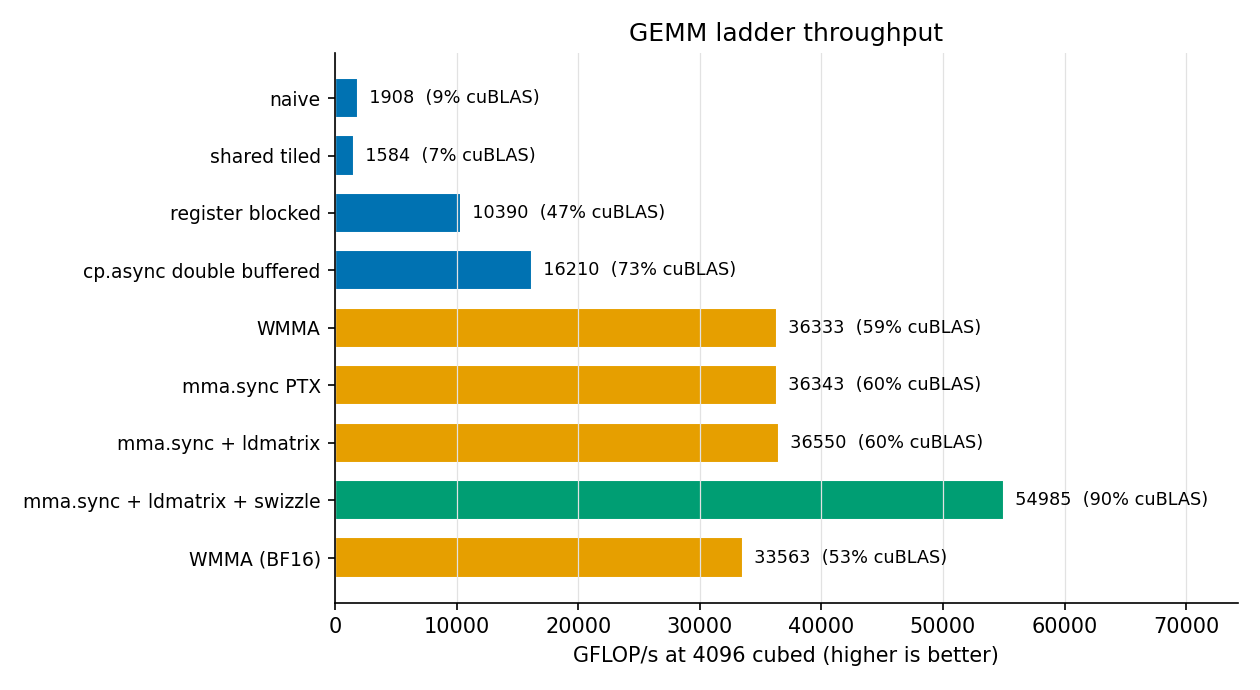
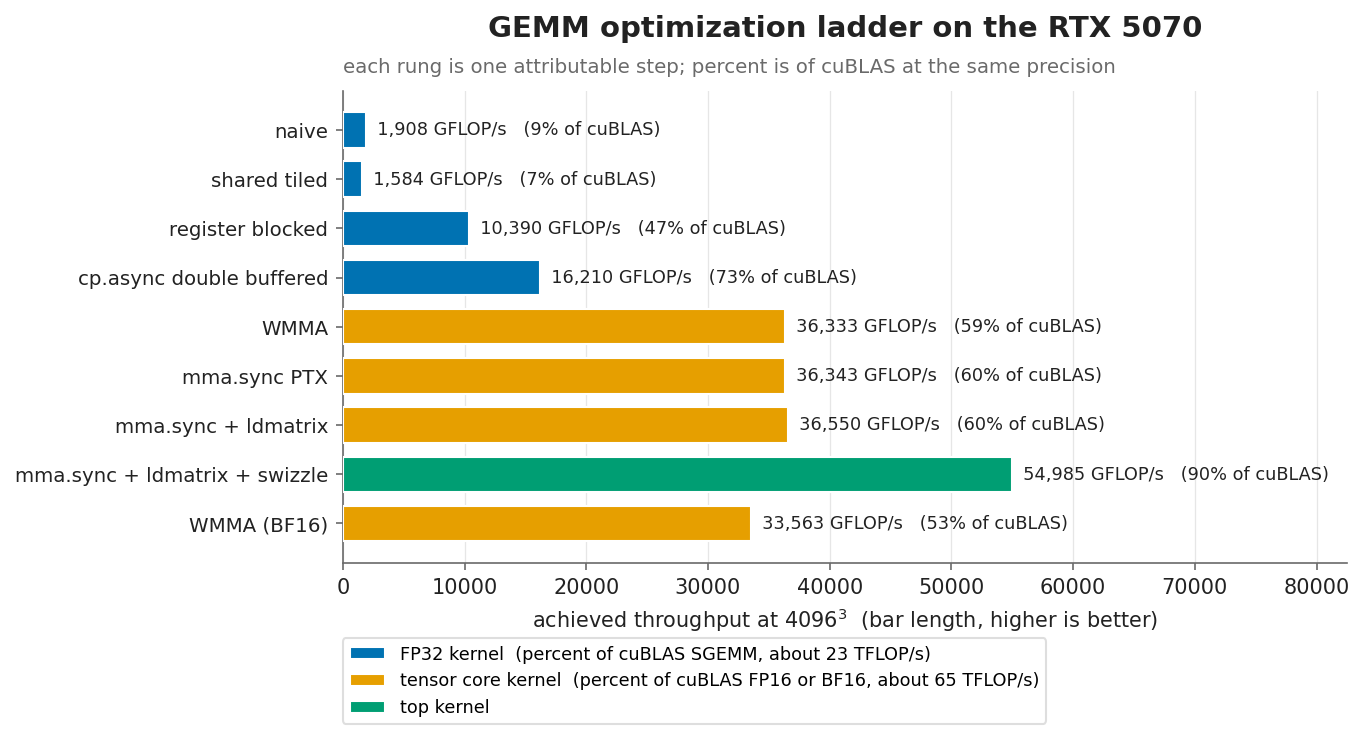
Rename project title to CUDA Kernel Library; clearer ladder chart with per-precision legend and new-page section starts

Changed region(s): [[0.0, 0.0, 0.9905, 1.0], [0.8976, 0.8522, 0.9595, 0.913]]

diff --git a/scripts/gen_report_assets.py b/scripts/gen_report_assets.py
@@ -66,7 +66,7 @@ def write_gemm_ladder(rows, size: int) -> list[tuple[str, float, float]]:
         g = float(r["gflops"])
         pct = float(r["pct_baseline"])
         lines.append(f"{latex_escape(label)} & {dtype} & {g:.0f} & {pct:.1f} \\\\")
-        plotted.append((label, g, pct))
+        plotted.append((label, dtype, g, pct))
     lines += [r"\bottomrule", r"\end{tabular}", ""]
     out.write_text("\n".join(lines), encoding="utf-8")
     return plotted
@@ -99,41 +99,78 @@ def write_families(rows) -> None:
     out.write_text("\n".join(lines), encoding="utf-8")
 
 
-def plot_ladder(plotted: list[tuple[str, float, float]]) -> None:
+def plot_ladder(plotted: list[tuple[str, str, float, float]]) -> None:
     import matplotlib
 
     matplotlib.use("Agg")
     import matplotlib.pyplot as plt
+    from matplotlib.patches import Patch
+
+    ink = "#222222"
+    muted = "#6A6A6A"
+    # Colors carry both the compute path and the baseline the percent is measured
+    # against: FP32 kernels versus cuBLAS SGEMM, tensor kernels versus cuBLAS FP16
+    # or BF16. The top kernel is called out in green.
+    fp32_c, tensor_c, top_c = "#0072B2", "#E69F00", "#009E73"
 
     labels = [p[0] for p in plotted]
-    gflops = [p[1] for p in plotted]
-    # Okabe-Ito, FP32 rungs cool, tensor rungs warm; the top kernel highlighted.
+    gflops = [p[2] for p in plotted]
     colors = []
-    for label, _g, _pct in plotted:
+    for label, dtype, _g, _pct in plotted:
         if "swizzle" in label:
-            colors.append("#009E73")
-        elif any(t in label for t in ("WMMA", "mma")):
-            colors.append("#E69F00")
+            colors.append(top_c)
+        elif dtype in ("fp16", "bf16"):
+            colors.append(tensor_c)
         else:
-            colors.append("#0072B2")
+            colors.append(fp32_c)
 
-    fig, ax = plt.subplots(figsize=(8.4, 4.6))
-    y = range(len(labels))
-    ax.barh(list(y), gflops, color=colors, edgecolor="white", height=0.7)
-    ax.set_yticks(list(y))
-    ax.set_yticklabels(labels, fontsize=9)
+    fig, ax = plt.subplots(figsize=(9.2, 5.2))
+    y = list(range(len(labels)))
+    ax.barh(y, gflops, color=colors, edgecolor="white", height=0.72, zorder=3)
+    ax.set_yticks(y)
+    ax.set_yticklabels(labels, fontsize=9.5, color=ink)
     ax.invert_yaxis()
-    ax.set_xlabel("GFLOP/s at 4096 cubed (higher is better)", fontsize=10)
-    ax.set_title("GEMM ladder throughput", fontsize=12)
-    for i, (_l, g, pct) in enumerate(plotted):
-        ax.text(g, i, f"  {g:.0f}  ({pct:.0f}% cuBLAS)", va="center", fontsize=8.5)
-    ax.grid(True, axis="x", color="#E2E2E2", linewidth=0.6)
+
+    # Bar end labels: absolute throughput (the bar length) and the percent of the
+    # same precision cuBLAS baseline (the color says which baseline).
+    for i, (_l, _dt, g, pct) in enumerate(plotted):
+        ax.text(g, i, f"  {g:,.0f} GFLOP/s   ({pct:.0f}% of cuBLAS)", va="center",
+                fontsize=8.5, color=ink)
+
+    ax.set_xlabel("achieved throughput at $4096^3$  (bar length, higher is better)",
+                  fontsize=10, color=ink)
+    # Title plus a subtitle that resolves the apparent paradox (a lower GFLOP/s bar
+    # can be a higher percent, because the baseline differs by precision).
+    ax.set_title("GEMM optimization ladder on the RTX 5070", fontsize=14,
+                 fontweight="bold", color=ink, pad=26)
+    ax.text(0.0, 1.03,
+            "each rung is one attributable step; percent is of cuBLAS at the same precision",
+            transform=ax.transAxes, fontsize=9.5, color=muted, va="bottom")
+
+    handles = [
+        Patch(facecolor=fp32_c, edgecolor="white",
+              label="FP32 kernel  (percent of cuBLAS SGEMM, about 23 TFLOP/s)"),
+        Patch(facecolor=tensor_c, edgecolor="white",
+              label="tensor core kernel  (percent of cuBLAS FP16 or BF16, about 65 TFLOP/s)"),
+        Patch(facecolor=top_c, edgecolor="white", label="top kernel"),
+    ]
+    # Legend in its own space below the x-axis label, left aligned, so it never
+    # covers a bar or a data label.
+    ax.legend(handles=handles, loc="upper left", bbox_to_anchor=(0.0, -0.16),
+              frameon=True, framealpha=0.95, edgecolor="#DDDDDD", fontsize=8.5,
+              ncol=1, borderaxespad=0.0)
+
+    ax.grid(True, axis="x", color="#E6E6E6", linewidth=0.6, zorder=0)
     for spine in ("top", "right"):
         ax.spines[spine].set_visible(False)
-    ax.set_xlim(0, max(gflops) * 1.35)
+    for spine in ("left", "bottom"):
+        ax.spines[spine].set_color(muted)
+    ax.tick_params(colors=muted, labelcolor=ink)
+    ax.set_xlim(0, max(gflops) * 1.5)
     fig.tight_layout()
-    fig.savefig(FIGURES / "ladder.pdf")
-    fig.savefig(FIGURES / "ladder.png", dpi=150)
+    # bbox_inches tight so the legend placed below the axes is included in the file.
+    fig.savefig(FIGURES / "ladder.pdf", bbox_inches="tight")
+    fig.savefig(FIGURES / "ladder.png", dpi=150, bbox_inches="tight")
 
 
 def main() -> int:

diff --git a/report/main.tex b/report/main.tex
@@ -9,7 +9,8 @@
 
 \graphicspath{{figures/}}
 
-\title{CUDA Kernel Lab: Driving a GEMM from Naive to Compute Bound on an RTX 5070}
+\title{CUDA Kernel Library\\[4pt]
+\large Driving a GEMM from naive to compute bound on an RTX 5070}
 \author{Olajide Badejo}
 \date{2026}
 
@@ -28,6 +29,8 @@ ladder the library carries GEMV, TRSM, CSR SpMV, and a cuSOLVER wrapper, all
 verified against the vendor library, with a measured roofline that places each
 kernel against the machine's limits.
 \end{abstract}
+
+\newpage
 
 \section{Introduction}
 
@@ -97,8 +100,12 @@ measured on the RTX 5070.}
 \begin{figure}[htbp]
 \centering
 \includegraphics[width=0.9\textwidth]{ladder.pdf}
-\caption{GEMM ladder throughput at 4096 cubed. FP32 rungs in blue, tensor rungs in
-amber, the top kernel in green.}
+\caption{GEMM ladder at 4096 cubed. Bar length is the absolute achieved throughput
+(GFLOP/s). The percent in each label is of cuBLAS \emph{at the same precision},
+which is why a shorter FP32 bar can show a higher percent than a longer tensor bar:
+the FP32 kernels (blue) are measured against cuBLAS SGEMM (about 23 TFLOP/s) and the
+tensor kernels (amber, top kernel green) against cuBLAS FP16 or BF16 (about 65
+TFLOP/s).}
 \label{fig:ladder}
 \end{figure}
 

diff --git a/report_debug/debug_report.tex b/report_debug/debug_report.tex
@@ -4,7 +4,7 @@
 \usepackage[hidelinks]{hyperref}
 \usepackage{parskip}
 
-\title{CUDA Kernel Lab: Debug Report}
+\title{CUDA Kernel Library: Debug Report}
 \author{Olajide Badejo}
 \date{2026}
 
@@ -19,6 +19,8 @@ a plausible change measured worse and was reverted, is here too as an equal rank
 result. This document is generated from the same engineering log the work was
 recorded in as it happened.
 \end{abstract}
+
+\newpage
 
 \section{Toolchain and build}
 

diff --git a/README.md b/README.md
@@ -1,4 +1,4 @@
-# CUDA Kernel Lab
+# CUDA Kernel Library
 
 A CUDA kernel library whose GEMM path is driven, through explicit optimization
 steps and Nsight Compute diagnostic rounds, from a naive baseline to a compute